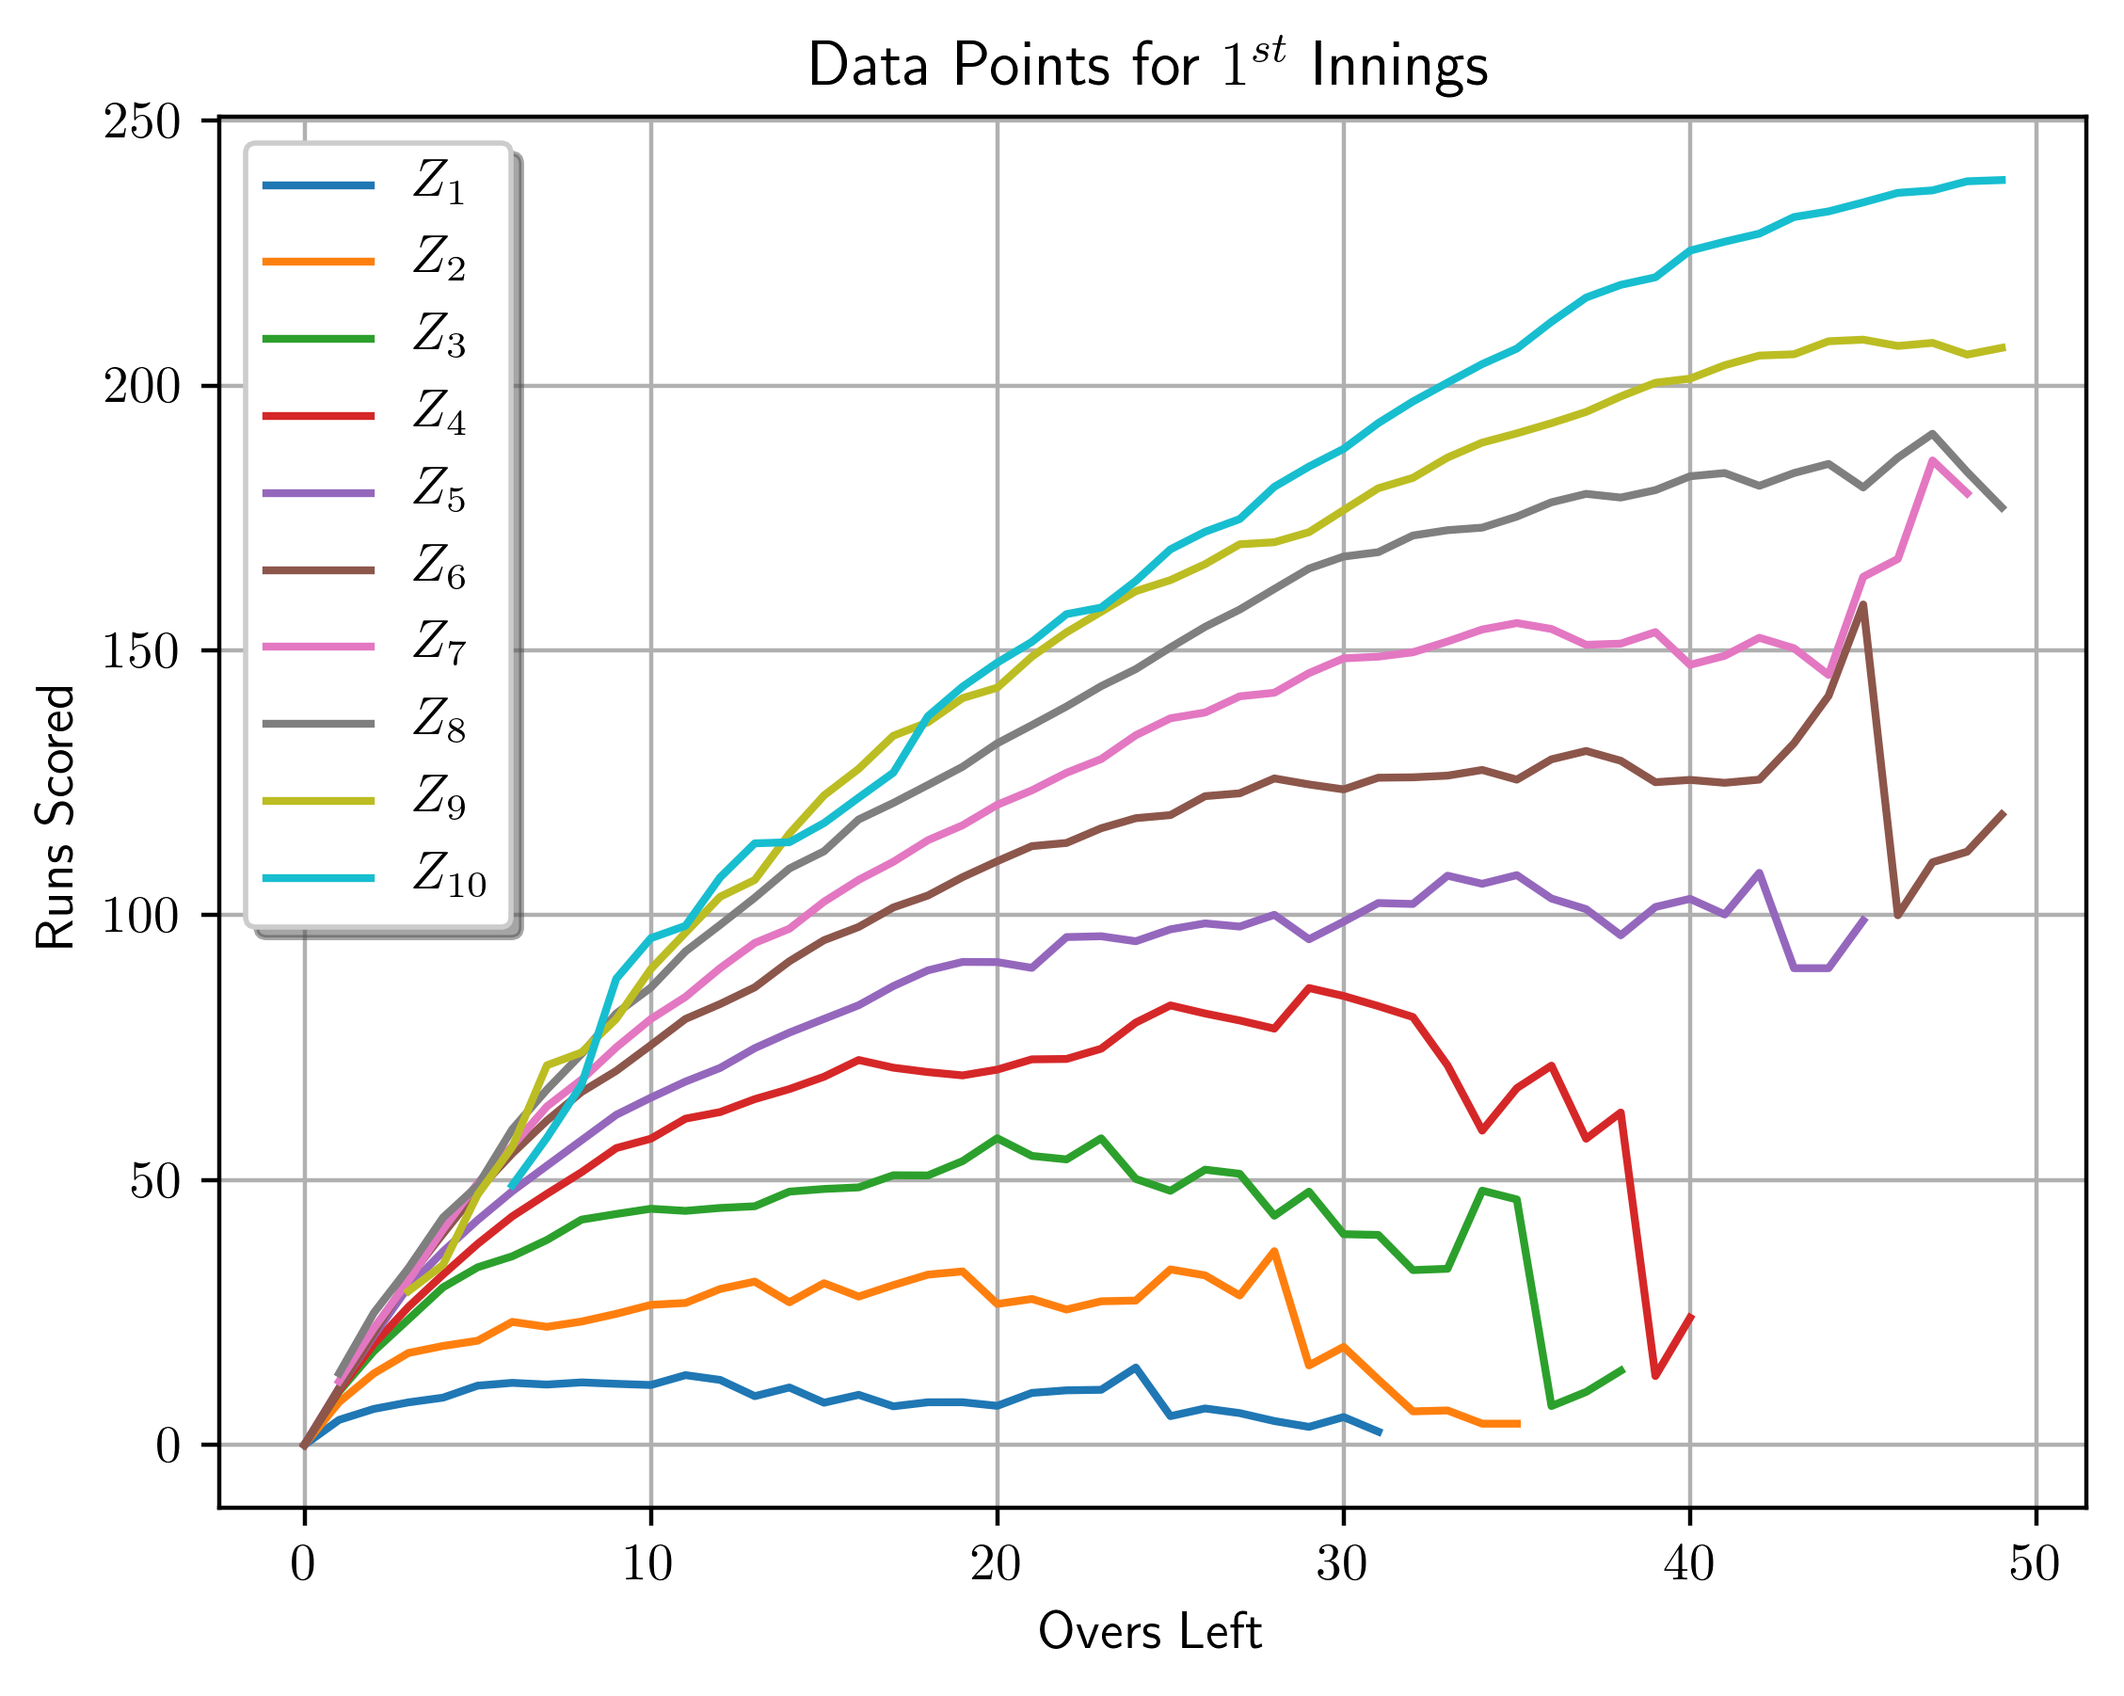
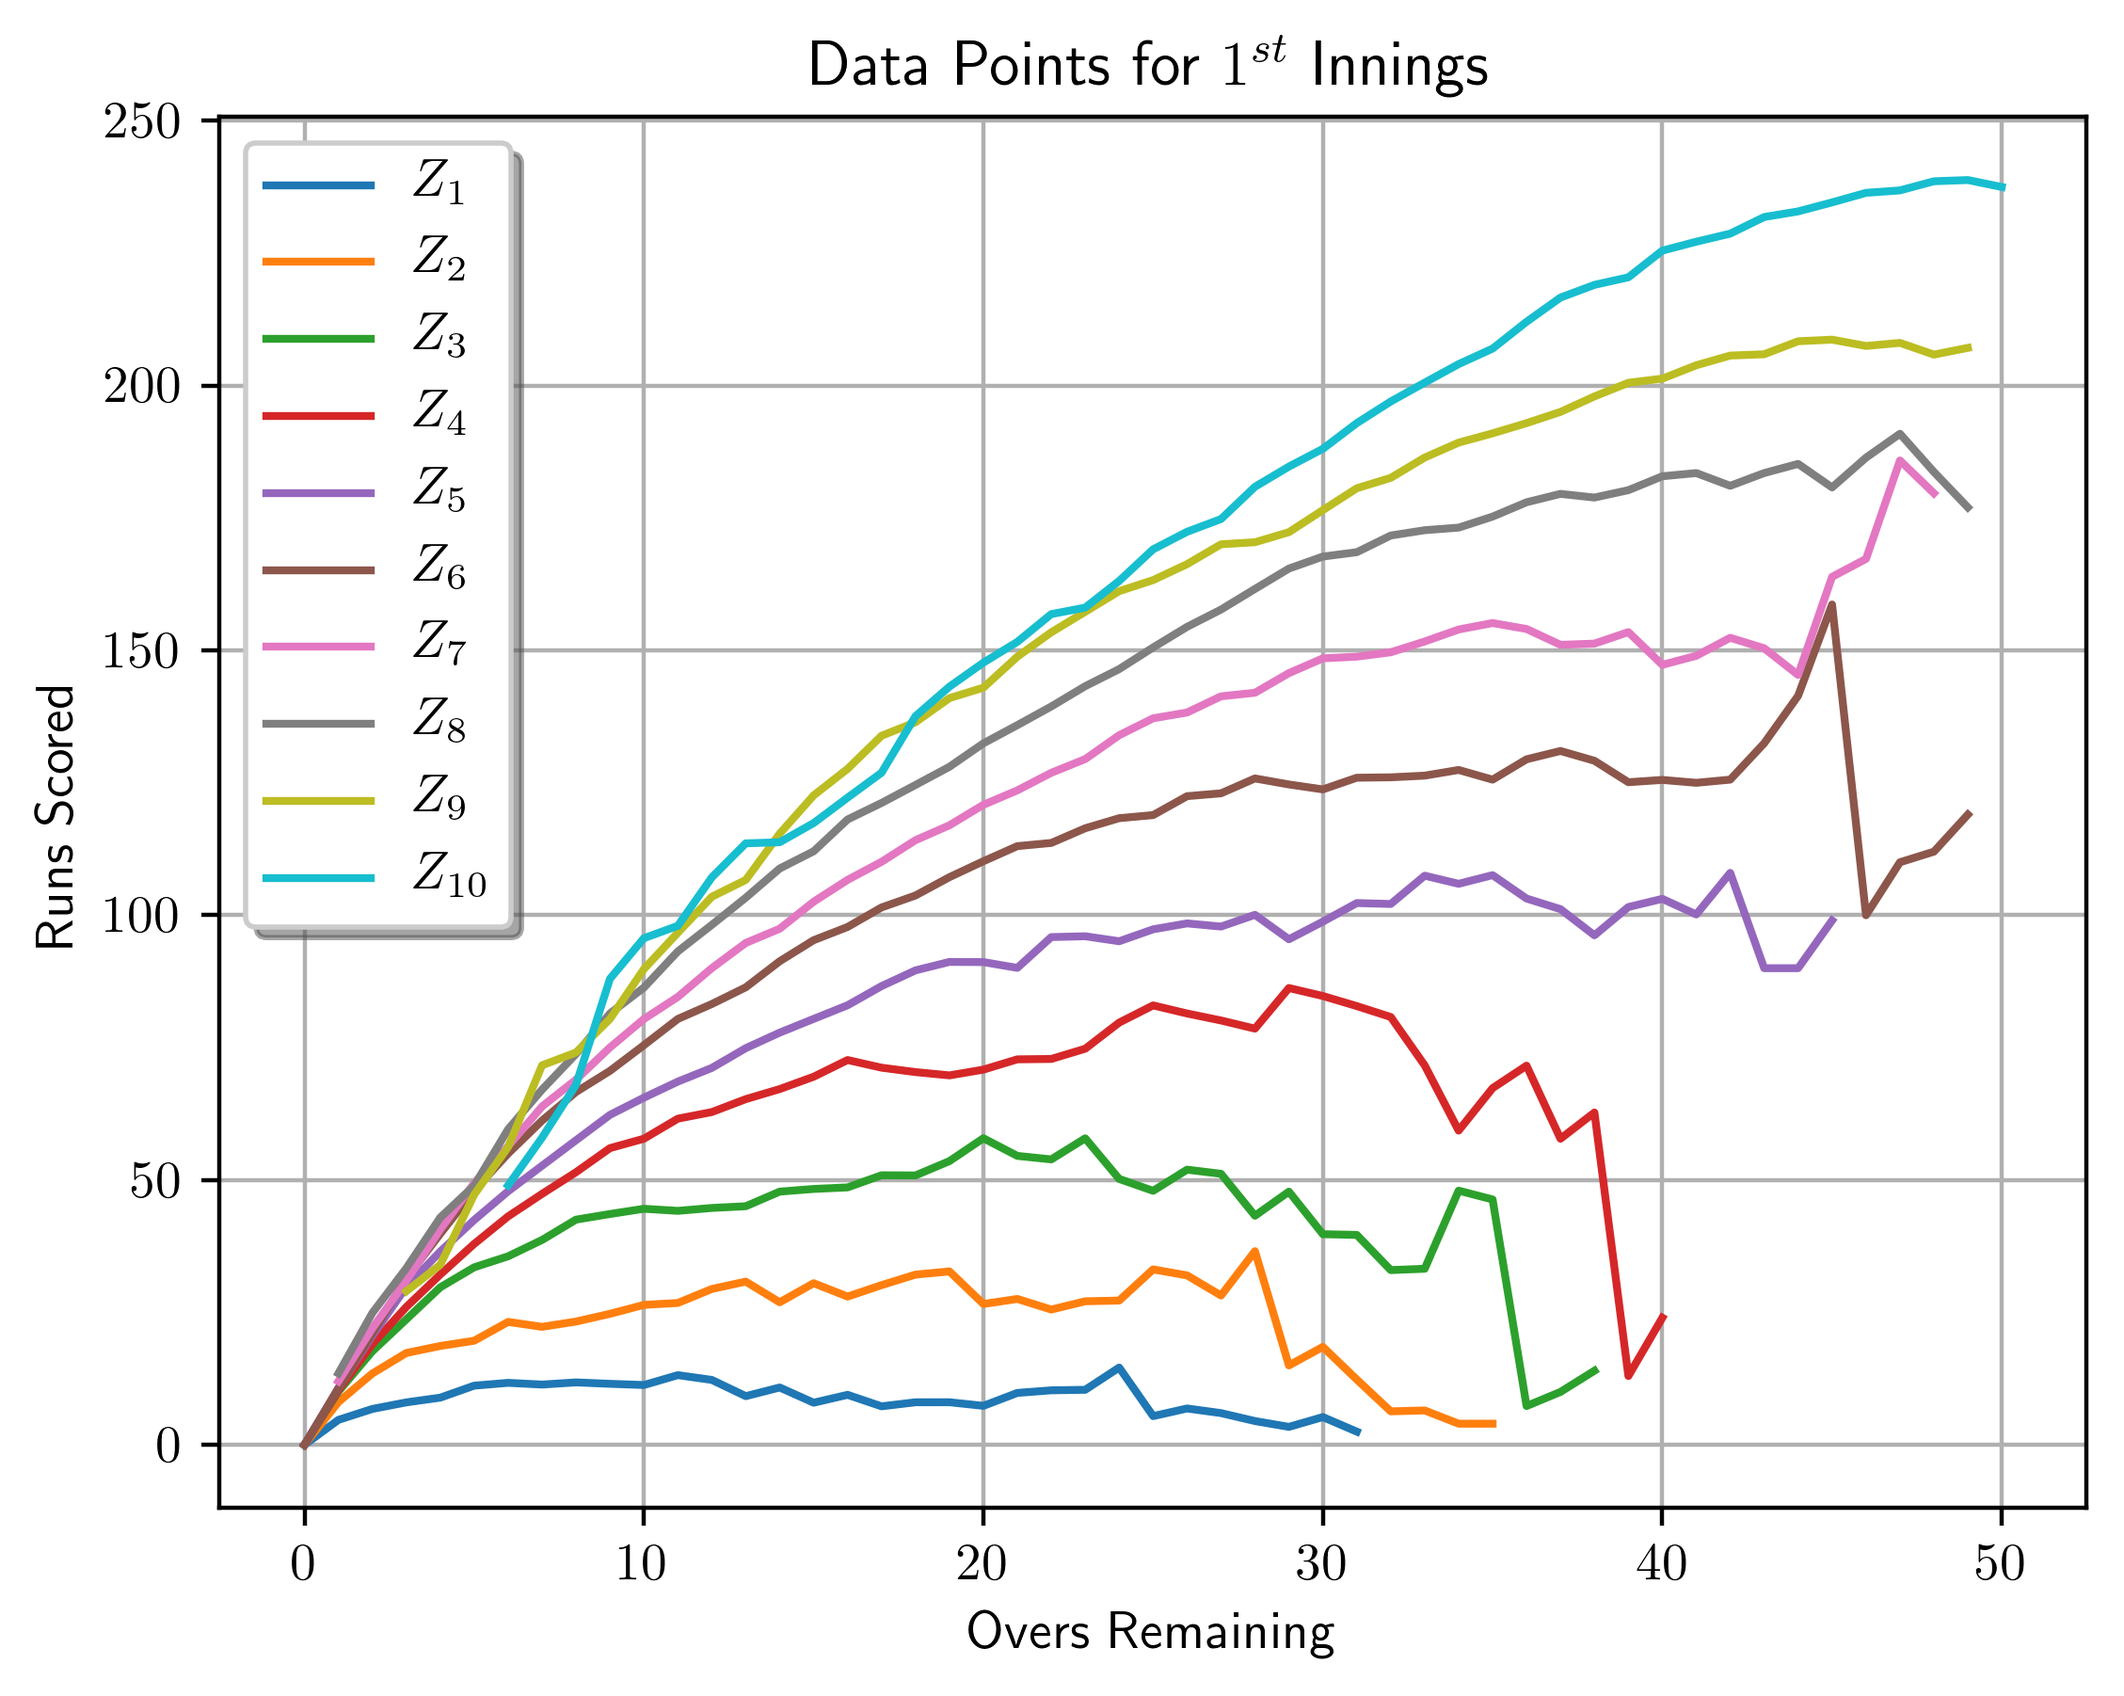
3 Approaches

diff --git a/mod1 - DL (Duckworth-Lewis)/main.py b/mod1 - DL (Duckworth-Lewis)/main.py
@@ -1,7 +1,9 @@
-import os, sys, shutil, itertools as it
+import os, sys, shutil, argparse, inspect
 from datetime import datetime
+from copy import deepcopy
 
 import numpy as np, pandas as pd
+
 
 from mpl_toolkits.mplot3d import Axes3D
 import matplotlib as mpl
@@ -13,9 +15,13 @@ from matplotlib.ticker import StrMethodFormatter
 
 import tensorflow
 import keras
-from keras.layers import Input, Dense, Multiply, Lambda
+from keras.layers import Input, Dense, Add, Subtract, Multiply, Lambda
 from keras.layers import Dropout, Activation, BatchNormalization
 from keras.models import Model
+
+
+
+'Libraries API based Utilities Section Begins'
 
 from keras import backend as K
 from keras.utils.generic_utils import get_custom_objects
@@ -24,51 +30,117 @@ e, floatx = K.epsilon(), K.floatx()
 
 def better_precision():
 	global e, floatx	
-	e, floatx = e*(10**(-2)), 'float64'
+	e, floatx = e**2, 'float64'
 	K.set_epsilon(e)
 	K.set_floatx(floatx)
-
-def exp_activation(x):
-	return K.exp(x)
 
 def sum_squared_error(y_true, y_pred):
 	return K.sum(K.square(y_true - y_pred))
 
-get_custom_objects().update({'exp_activation': Activation(exp_activation)})
+get_custom_objects().update({'sum_squared_error': sum_squared_error})
+get_custom_objects().update({'sse': sum_squared_error})
 
+'Libraries API based Utilities Section Ends'
+
+
+# Flag for taking data for 50 overs remaining, using Innings Total
+before_first_over_mode  = False
+plot_initial_data       = False
+call_consistent         = False
+use_consistent          = False
+if call_consistent:
+	use_consistent      = True
+
+# Variables can be set & Called via command
+# approach = 'mean'
+# epochs=10**3,factor=(1/3),
+# opt='Adam',lr=0.001,decay=0.0,momentum=0.9,nesterov=True
+
+
+
+'Reading Dataset & Making it More Consistent Section Begins'
 
 data_df = pd.read_csv('04_cricket_1999to2011.csv')
-print(data_df.columns)
+# print(data_df.columns)
 
+def consistent_df():
+	R,C = data_df.shape
+	# Pointers to be set at startting and end of Innings
+	innings_count, start, end = 0, 0, 0
+	while start < R:
+		end = start
+		while (end+1<R) and (data_df['Innings'][end+1]==data_df['Innings'][start]):
+			end += 1
+		
+		for cur in range(start+1,end):
+			prev_A, prev_B = data_df['Runs'][cur-1], data_df['Innings.Total.Runs'][cur-1]
+			cur_A,  cur_B  = data_df['Runs'][cur],   data_df['Innings.Total.Runs'][cur]
+			next_A, next_B = data_df['Runs'][cur+1], data_df['Innings.Total.Runs'][cur+1]
+
+			# Assuming wrong key presses, checking what can ho wrong
+			if ((prev_A+prev_B) != (cur_B)) and ((cur_A+cur_B) != (next_B)):
+				# Only cur_b is wrong at its place
+				if (next_B-next_A)==(prev_A+prev_B):
+					cur_B = prev_A+prev_B
+				else:
+					dc_conv = lambda x: dict( (i,str(x).count(i)) for i in set(str(x)) )
+					dc_adds = lambda x: dict(())
+					dc_absd = lambda x: sum(x)
+
+					dc_prev_A, dc_prev_B = dc_conv(prev_A), dc_conv(prev_B)
+					dc_cur_A,  dc_cur_B  = dc_conv(cur_A),  dc_conv(cur_B)
+					dc_next_A, dc_next_B = dc_conv(next_A), dc_conv(next_B)
+				data_df.loc[cur,  'Innings.Total.Runs'] = cur_B
+			prev_A, prev_B = cur_A, cur_B
+		#print(start,end)
+		innings_count +=1
+		start = end+1
+
+if call_consistent:
+	consistent_df()
+	data_df.to_csv( '04_cricket_1999to2011_consistent.csv', index=False)
+if use_consistent:
+	data_df = pd.read_csv('04_cricket_1999to2011_consistent.csv')
+
+'Reading Dataset & Making it More Consistent Section Ends'
+
+'''
 col_ix = {}
 for i in ['Innings','Over','Total.Overs','Innings.Total.Runs','Total.Runs','Wickets.in.Hand']:
 	col_ix[i] = list(data_df.columns).index(i)
+'''
+
+'Data Storage & Collection Section Begins'
 
 ING = np.array(data_df['Innings'])
 OL  = np.array(data_df['Total.Overs'])        - np.array(data_df['Over'])
 WIH = np.array(data_df['Wickets.in.Hand'])
 RM  = np.array(data_df['Innings.Total.Runs']) - np.array(data_df['Total.Runs'])
 
-for i in ['ING','OL','WIH','RM']:
-	print(i,eval('{}.min()'.format(i)),eval('{}.max()'.format(i)))
+# for i in ['ING','OL','WIH','RM']:
+# 	print(i,eval('{}.min()'.format(i)),eval('{}.max()'.format(i)))
 
-'''
-ING 1 2 
-OL 0 49 # can be used as 50 columns
-WIH 0 10
-RM -1 435
-'''
-
-mat_data,mat_count  = np.zeros((50,10)), np.zeros((50,10))
+if before_first_over_mode:
+	mat_data,mat_count  = np.zeros((51,10)), np.zeros((51,10),dtype=int)
+else:
+	mat_data,mat_count  = np.zeros((50,10)), np.zeros((50,10),dtype=int)
 dict_data = {}
 metadata_columns = ['WIH']
 projection_data,projection_metadata = [],[]
 
 for i in range(len(ING)):
+	any_condition_entered = True
 	if ING[i]==1:
 		# Having 1 or 0 wicket in hand is same thing
-		x,y = OL[i], max(WIH[i],1)-1
-		mat_data[x][y]  += RM[i]
+		x,y,z = OL[i], max(WIH[i],1)-1, RM[i]
+		last_was_1st_inning = True
+	elif before_first_over_mode and (ING[i]==2) and last_was_1st_inning:
+		x, y, z = 50, (10-1), data_df['Innings.Total.Runs'][i-1]
+		last_was_1st_inning = False
+	else:
+		any_condition_entered = False
+	if any_condition_entered:
+		mat_data[x][y]  += z
 		mat_count[x][y] += 1
 		if (x,y) in dict_data:
 			dict_data[(x,y)].append(RM[i])
@@ -80,6 +152,11 @@ mat_data = np.where(mat_count,mat_data/mat_count,0)
 # 500 point approach, similar to all point approach
 dict_mat_data = { (x,y):[mat_data[x][y]] for x in range(mat_data.shape[0]) for y in range(mat_data.shape[1])}
 
+'Data Storage & Collection Section Ends'
+
+
+
+'Writing & Projection Data Section Begins'
 
 def write_proj_tsv():
 	proj_d_df  = pd.DataFrame(data=projection_data,    columns=['OL','WIH','RM'])
@@ -122,8 +199,8 @@ def proj_tsv(frctn = 0.2,size=1,mode='2d'):
 			temp = temp[:int(np.round(frctn*len(temp)))]
 			xs,ys,zs = tuple(np.array(temp).T)
 			ax.scatter(xs, ys, zs, label=r'$Z_{{{}}}$'.format(int(wih+1)), marker='o', s=size)
-		ax.set_xlabel('Overs Left')
-		plt.ylabel('Runs Scored')
+		ax.set_xlabel('Overs Remaining')
+		plt.ylabel('Wickets In Hand')
 		plt.yticks(np.linspace(1,10,10),np.linspace(1,10,10,dtype=int))
 		ax.set_zlabel('Runs Made')
 		plt.legend(bbox_to_anchor=(0.5,1), loc="lower center", ncol=len(proj_points),
@@ -133,7 +210,7 @@ def proj_tsv(frctn = 0.2,size=1,mode='2d'):
 		for wih in proj_points:
 			xs,ys,zs = tuple(np.array(proj_points[wih]).T)
 			plt.plot(xs, zs,label=r'$Z_{{{}}}$'.format(int(wih+1)))
-		plt.xlabel('Overs Left')
+		plt.xlabel('Overs Remaining')
 		plt.ylabel('Runs Scored')
 		plt.legend(fancybox=True,shadow=True)
 
@@ -144,11 +221,16 @@ def proj_tsv(frctn = 0.2,size=1,mode='2d'):
 	plt.savefig('{} {}.PNG'.format(title2,mode),dpi=400,bbox_inches='tight',format='PNG')
 	plt.show()
 
-# proj_tsv(1,10,'3d')
-# proj_tsv(1,10,'2d')
+if plot_initial_data:
+	proj_tsv(1,10,'3d')
+	proj_tsv(1,10,'2d')
+
+'Writing & Projection Data Section Ends'
 
 
-# dict_mat_data = { (x,y):[mat_data[x][y]] for x in range(mat_data.shape[0]) for y in range(mat_data.shape[1])}
+
+'Data Encoding & Keras Model Section Begins'
+
 def NN_feed_postprocess_data(dict_form_data):
 	X_wih, X_ol, Y_rm = [],[],[]
 	for ol,wih in dict_form_data:
@@ -167,7 +249,7 @@ def init_Z(shape):
 
 def init_L(shape):
 	global L_init
-	L_init = K.variable(np.array([1,])[...,np.newaxis])
+	L_init = K.variable(np.array([5,])[...,np.newaxis])
 	return L_init
 
 def DL_model(*shapes):
@@ -180,7 +262,7 @@ def DL_model(*shapes):
 	
 	NUM   = L(X_inputs[1])
 	DENOM = Z(X_inputs[0])
-	X = Lambda( lambda x:(x[0]/x[1]) )([NUM,DENOM])
+	X = Lambda( lambda x:(-1*x[0]/x[1]) )([NUM,DENOM])
 	X = Lambda( lambda x:K.exp(x) )(X)
 	X = Lambda( lambda x:1-x )(X)
 	X = Multiply()([ X_inputs[0] , X ])
@@ -188,13 +270,13 @@ def DL_model(*shapes):
 	model   = Model(inputs = X_inputs, outputs = X, name='DL_model')
 	return model
 
-
 def fit_plot(dl_model,approach = 'mean'):
 	for wih in range(mat_data.shape[1]):
 		_ = [0]*mat_data.shape[1]
 		_[wih] = 1
 		X_wih, X_ol = [], []
-		for ol in range(mat_data.shape[0]):
+		# Plot for [0,50] instead of [0,49]
+		for ol in range(mat_data.shape[0]+(0 if before_first_over_mode else 1)):
 			X_wih.append(_)
 			X_ol.append([ol])
 		_ = [0]*mat_data.shape[1]
@@ -205,52 +287,99 @@ def fit_plot(dl_model,approach = 'mean'):
 
 	title  = r'Run Scoring Fucntion of $1^{st}$ Innings'
 	title2 = 'Run Scoring Fucntion of 1st Innings'
-	plt.xlabel('Overs Left')
+	plt.xlabel('Overs Remaining')
 	plt.ylabel('Runs Scored')
-	# plt.ylabel('Scoring Potential Left')
+	# plt.ylabel('Scoring Potential Remaining')
 	plt.title(title)
 	plt.grid(True)
 	plt.legend(fancybox=True,shadow=True)
 	plt.savefig('{} {}.PNG'.format(title2,approach),dpi=400,bbox_inches='tight',format='PNG')
 	plt.show()
 
-def dl_process(approach = 'mean',lr=0.001,factor=(1/3),epochs=10**3):
+def dl_process(dl_model=None, approach = 'mean',epochs=10**3,factor=(1/3),batch_size=32,
+	loss='mse',opt='Adam',lr=0.001,decay=0.0,momentum=0.9,nesterov=True,RLRoP=True):
+	lcls = deepcopy(locals())
+	global x_train, y_train
 	# Data set preprocessing section
 	x_train, y_train = NN_feed_postprocess_data(dict_mat_data if approach=='mean' else dict_data)
 
 	# Model Building Section
-	dl_model = DL_model((mat_data.shape[1],),(1,))
+	if dl_model is None:
+		dl_model = DL_model((mat_data.shape[1],),(1,))
 
 	# Training Section
-	opt = keras.optimizers.Adam( lr=lr, decay=0.0 )
-	dl_model.compile(optimizer=opt, loss=sum_squared_error)
+	if opt=='SGD':
+		opt = keras.optimizers.SGD( lr=lr, decay=decay, momentum=momentum, nesterov=nesterov)
+	else:
+		opt = keras.optimizers.Adam( lr=lr, decay=decay )
+	dl_model.compile(optimizer=opt, loss=loss)
 
 	reduce_lr = keras.callbacks.ReduceLROnPlateau(monitor='loss', factor=factor,
-		patience=10, verbose=1, mode='auto', min_delta=25, cooldown=0, min_lr=0)
+		patience=10, verbose=1, mode='auto', min_delta=0.001, cooldown=0, min_lr=0)
 
-	history = dl_model.fit(x=x_train,y=y_train,epochs=epochs,
-		batch_size=128,
-		shuffle=True,callbacks=[reduce_lr])
-		# batch_size=len((dict_mat_data if approach=='mean' else dict_data)),
+	if approach=='mean':
+		history = dl_model.fit(x=x_train,y=y_train,epochs=epochs,
+			batch_size=batch_size, shuffle=True,
+			callbacks=([reduce_lr] if RLRoP else []))
+	elif approach=='sep_data':
+		history = dl_model.fit(x=x_train,y=y_train,epochs=epochs,
+			batch_size=batch_size, shuffle=True,
+			callbacks=([reduce_lr] if RLRoP else []))
+	elif approach=='sliced_data':
+		ls = list(range(mat_data.shape[1]))
+		for i in range(epochs):
+			print('Sliced Epoch',i+1)
+			np.random.shuffle(ls)
+			for i in ls:
+				_ = mat_count.sum(axis=0)
+				start_ix, end_ix = _[:i].sum(), _[:i+1].sum()
+				# print((i,start_ix,end_ix),end=' ')
+				x_train2, y_train2 = [[],[]], []
+				x_train2[0] = x_train[0][start_ix:end_ix]
+				x_train2[1] = x_train[1][start_ix:end_ix]
+				y_train2    =    y_train[start_ix:end_ix]
+				history = dl_model.fit(x=x_train2,y=y_train2,epochs=epochs,
+					batch_size=batch_size, shuffle=True,
+					callbacks=([reduce_lr] if RLRoP else []))
 
-	history = history.history
+	# history = history.history
 
-	fit_plot(dl_model)
-	y_pred = dl_model.predict(x_train)
-	loss = np.sum(np.square( y_train - y_pred ))
+	x_train_r, y_train_r = NN_feed_postprocess_data(dict_data)
+	y_pred_r = dl_model.predict(x_train_r)
+	loss = np.sum(np.square( y_train_r - y_pred_r ))
 	with open('results.txt','a') as f:
-		print('\nEpsilon {} and Precision {}'.format(e,floatx))
+		print( *( '{:10s} {}'.format(x,lcls[x]) for x in lcls), sep='\n',file=f )
+		print('Epsilon {} and Precision {}'.format(e,floatx),file=f)
 		wts = dl_model.get_weights()
+		
 		print('L scalar is\n{}'.format(wts[1][0][0]) ,file=f)
 		print('Z array  is\n{}'.format(' '.join(tuple(map(str,wts[0].T[0])))) ,file=f)
-		print('SSE Loss using Approach {} is {:.2f}\n'.format(approach,loss) ,file=f)
-	return dl_model, history
+		
+		print(' SSE Loss using Approach {} is {:.2f}'.format(approach,loss) ,file=f)
+		print('RMSE Loss using Approach {} is {:.2f}'.format(
+			approach,np.sqrt(loss/y_pred_r.shape[0])) ,file=f)
+	fit_plot(dl_model)
+	return dl_model
 
 
-# m1,h1 = dl_process(approach = 'mean',    lr=0.01, factor=0.99, epochs=2*10**4)
-# m2,h2 = dl_process(approach = 'sep_data',lr=0.01, factor=0.99, epochs=10**3)
+'Data Encoding & Keras Model Section Ends'
+
+
+
+# with open('results.txt','w') as f:
+# 	pass
+
 
 better_precision()
 
-bm1,bh1 = dl_process(approach = 'mean',    lr=0.01,factor=0.99, epochs=2*10**4)
-bm2,bh2 = dl_process(approach = 'sep_data',lr=0.01,factor=0.99, epochs=10**3)
+m1 = dl_process(approach = 'sep_data',epochs=2*10**2,factor=0.99,batch_size=4096,
+	loss='sse',opt='Adam',lr=0.01,decay=0.0,momentum=0.9,nesterov=True,RLRoP=True)
+
+m2 = dl_process(approach = 'sliced_data',epochs=1*10**1,factor=0.99,batch_size=32,
+	loss='sse',opt='Adam',lr=0.01,decay=0.0,momentum=0.9,nesterov=True,RLRoP=True)
+
+m3 = dl_process(approach = 'mean',epochs=5*10**3,factor=0.99,batch_size=64,
+	loss='sse',opt='Adam',lr=0.1,decay=0.0,momentum=0.9,nesterov=True,RLRoP=True)
+
+with open('results.txt','a') as f:
+	print('Total Data Points',mat_count.sum(),end='\n\n',file=f)
